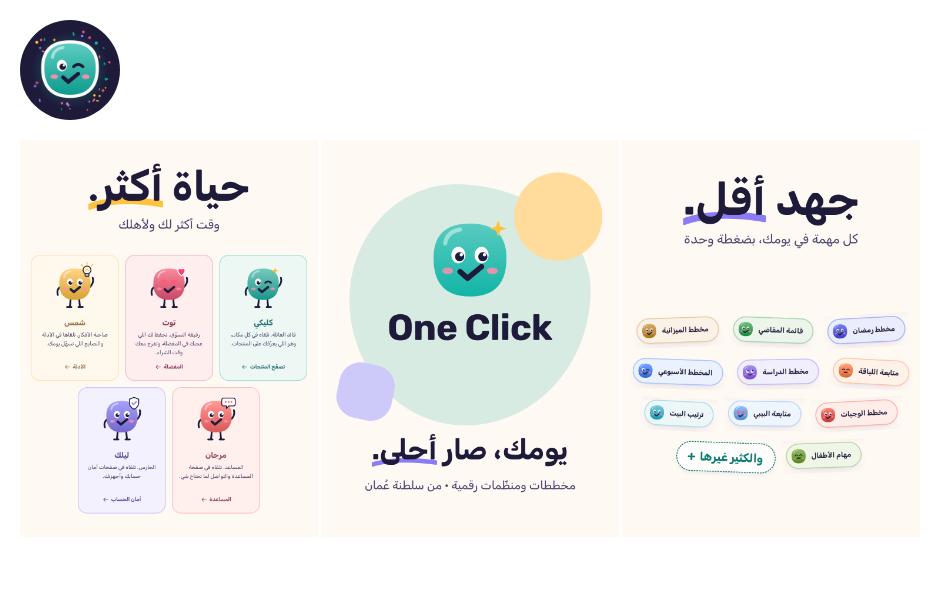
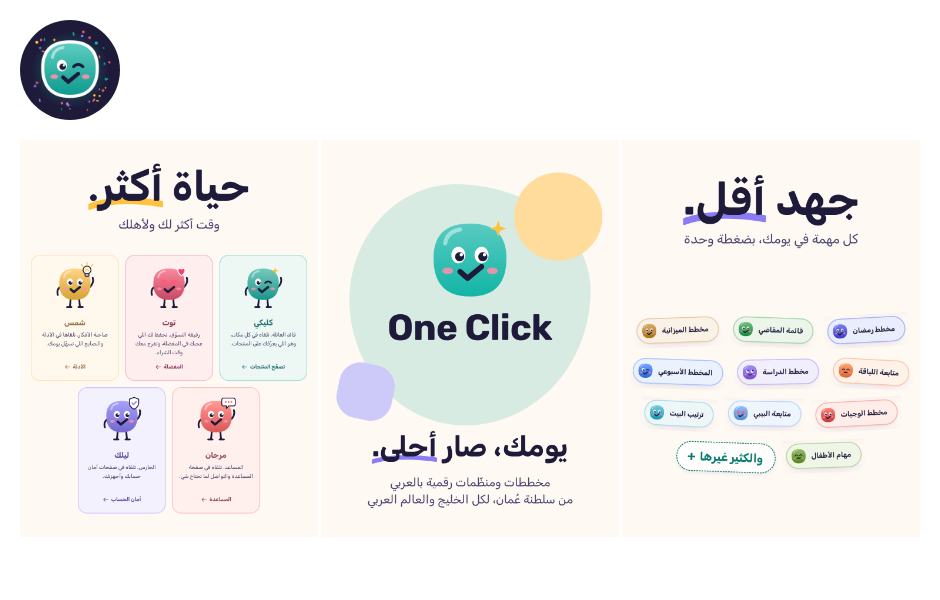
Instagram: speak to the Gulf and the Arab world, not only Oman
Claude-Session: https://claude.ai/code/session_01GWfywGzp39p4URjeog9ZPH

Changed region(s): [[0.3702, 0.72, 0.617, 0.84]]

diff --git a/oneclick/docs/INSTAGRAM.md b/oneclick/docs/INSTAGRAM.md
@@ -23,8 +23,8 @@ publishing **PRODUCTION CONNECTION REQUIRES OWNER** (Meta Professional account +
 - Name field: `ون كليك | مخططات ومنظّمات رقمية`
 - Bio options (all under 150 characters; no "free"):
   1. `جهد أقل، حياة أكثر ✨` / `مخططات ومنظّمات رقمية تسهّل يومك` / `👰 العروسة · 🌙 رمضان · 💰 الميزانية · 🧺 المقاضي` / `جرّبها قبل لا تشتريها 👇`
-  2. `خلّي يومك أسهل بضغطة وحدة 🖱` / `مفكّرة العروسة، مخطط رمضان، الميزانية والمزيد` / `عربي + English · من عُمان 🇴🇲` / `جرّبها قبل لا تشتريها 👇`
-  3. `أدوات رقمية جميلة لكل يوم ✨` / `من الفوضى إلى الوضوح، بضغطة وحدة` / `عربي + English · من عُمان 🇴🇲` / `👇 تصفّح وجرّب`
+  2. `خلّي يومك أسهل بضغطة وحدة 🖱` / `مفكّرة العروسة، مخطط رمضان، الميزانية والمزيد` / `من عُمان لكل الخليج والعرب 🇴🇲` / `جرّبها قبل لا تشتريها 👇`
+  3. `أدوات رقمية جميلة لكل يوم ✨` / `من الفوضى إلى الوضوح، بضغطة وحدة` / `من عُمان لكل الخليج والعرب 🇴🇲` / `👇 تصفّح وجرّب`
 - Link: `https://www.oneclick.computer/ar`
 - Clicky family highlight covers (1080×1920, no text, character centered for the circle crop) in `docs/instagram/highlights/`:
   Clicky = منتجاتنا, Toot = المفضلة, Shams = نصايح, Marjan = أسئلتكم, Lilac = حسابك, all five = عائلتنا.
@@ -54,6 +54,6 @@ public HTTPS URLs, rate limits per 24 h. The `social_posts` table stores status,
 last error so nothing is silently lost.
 
 ## Launch row captions (post in this order: post-1, post-2, post-3; images in `docs/instagram/launch/site/`)
-1. جهد أقل. ✨ / يومك فيه مهام كثيرة: مقاضي، ميزانية، دراسة، رمضان، ترتيب البيت، مهام الأطفال… والقائمة تطول. / في ون كليك سوّينا لكل مهمة أداة رقمية مرتبة، تفتحها من جوالك وتخلّصها بضغطة وحدة. / وهذي البداية بس، والكثير جاي 💚 / #ون_كليك #OneClick #تنظيم #مخطط #عمان
-2. هلا والله 👋 أنا كليكي، وهذي ون كليك. / علامة رقمية من سلطنة عُمان 🇴🇲 نصمم مخططات ومنظّمات تفاعلية بالعربي والإنجليزي، عشان يومك يصير أسهل وأحلى. / جرّب العرض المباشر قبل لا تشتري، والرابط في البايو 🔗 / #ون_كليك #OneClick #صنع_في_عمان #مخططات_رقمية #عمان
-3. حياة أكثر 💛 / لما تخف عليك المهام، يصير عندك وقت أكثر لك ولأهلك. / تعرّفوا على عائلة كليكي، كل واحد منهم يساعدك في جزء من الموقع: 💚 كليكي يعرّفك على المنتجات · 💗 توت تحفظ لك المفضلة وتفرح معك وقت الشراء · 💛 شمس تشاركك النصايح والأدلة · ❤ مرجان يساعدك إذا احتجت شي · 💜 ليلك يحمي حسابك / مين فيهم عجبك أكثر؟ قولوا لنا في التعليقات 👇 / #ون_كليك #OneClick #عائلة_كليكي #تنظيم_الوقت #عمان
+1. جهد أقل. ✨ / يومك فيه مهام كثيرة: مقاضي، ميزانية، دراسة، رمضان، ترتيب البيت، مهام الأطفال… والقائمة تطول. / في ون كليك سوّينا لكل مهمة أداة رقمية مرتبة، تفتحها من جوالك وتخلّصها بضغطة وحدة. / وهذي البداية بس، والكثير جاي 💚 / #ون_كليك #OneClick #تنظيم #مخطط #الخليج #العالم_العربي
+2. هلا والله 👋 أنا كليكي، وهذي ون كليك. / علامة رقمية من سلطنة عُمان 🇴🇲 لكل بيت في الخليج والعالم العربي. نصمم مخططات ومنظّمات تفاعلية بالعربي والإنجليزي، عشان يومك يصير أسهل وأحلى. / جرّب العرض المباشر قبل لا تشتري، والرابط في البايو 🔗 / #ون_كليك #OneClick #صنع_في_عمان #مخططات_رقمية #الخليج #السعودية #الإمارات #الكويت #قطر #البحرين #عمان
+3. حياة أكثر 💛 / لما تخف عليك المهام، يصير عندك وقت أكثر لك ولأهلك. / تعرّفوا على عائلة كليكي، كل واحد منهم يساعدك في جزء من الموقع: 💚 كليكي يعرّفك على المنتجات · 💗 توت تحفظ لك المفضلة وتفرح معك وقت الشراء · 💛 شمس تشاركك النصايح والأدلة · ❤ مرجان يساعدك إذا احتجت شي · 💜 ليلك يحمي حسابك / مين فيهم عجبك أكثر؟ قولوا لنا في التعليقات 👇 / #ون_كليك #OneClick #عائلة_كليكي #تنظيم_الوقت #الخليج #العالم_العربي
